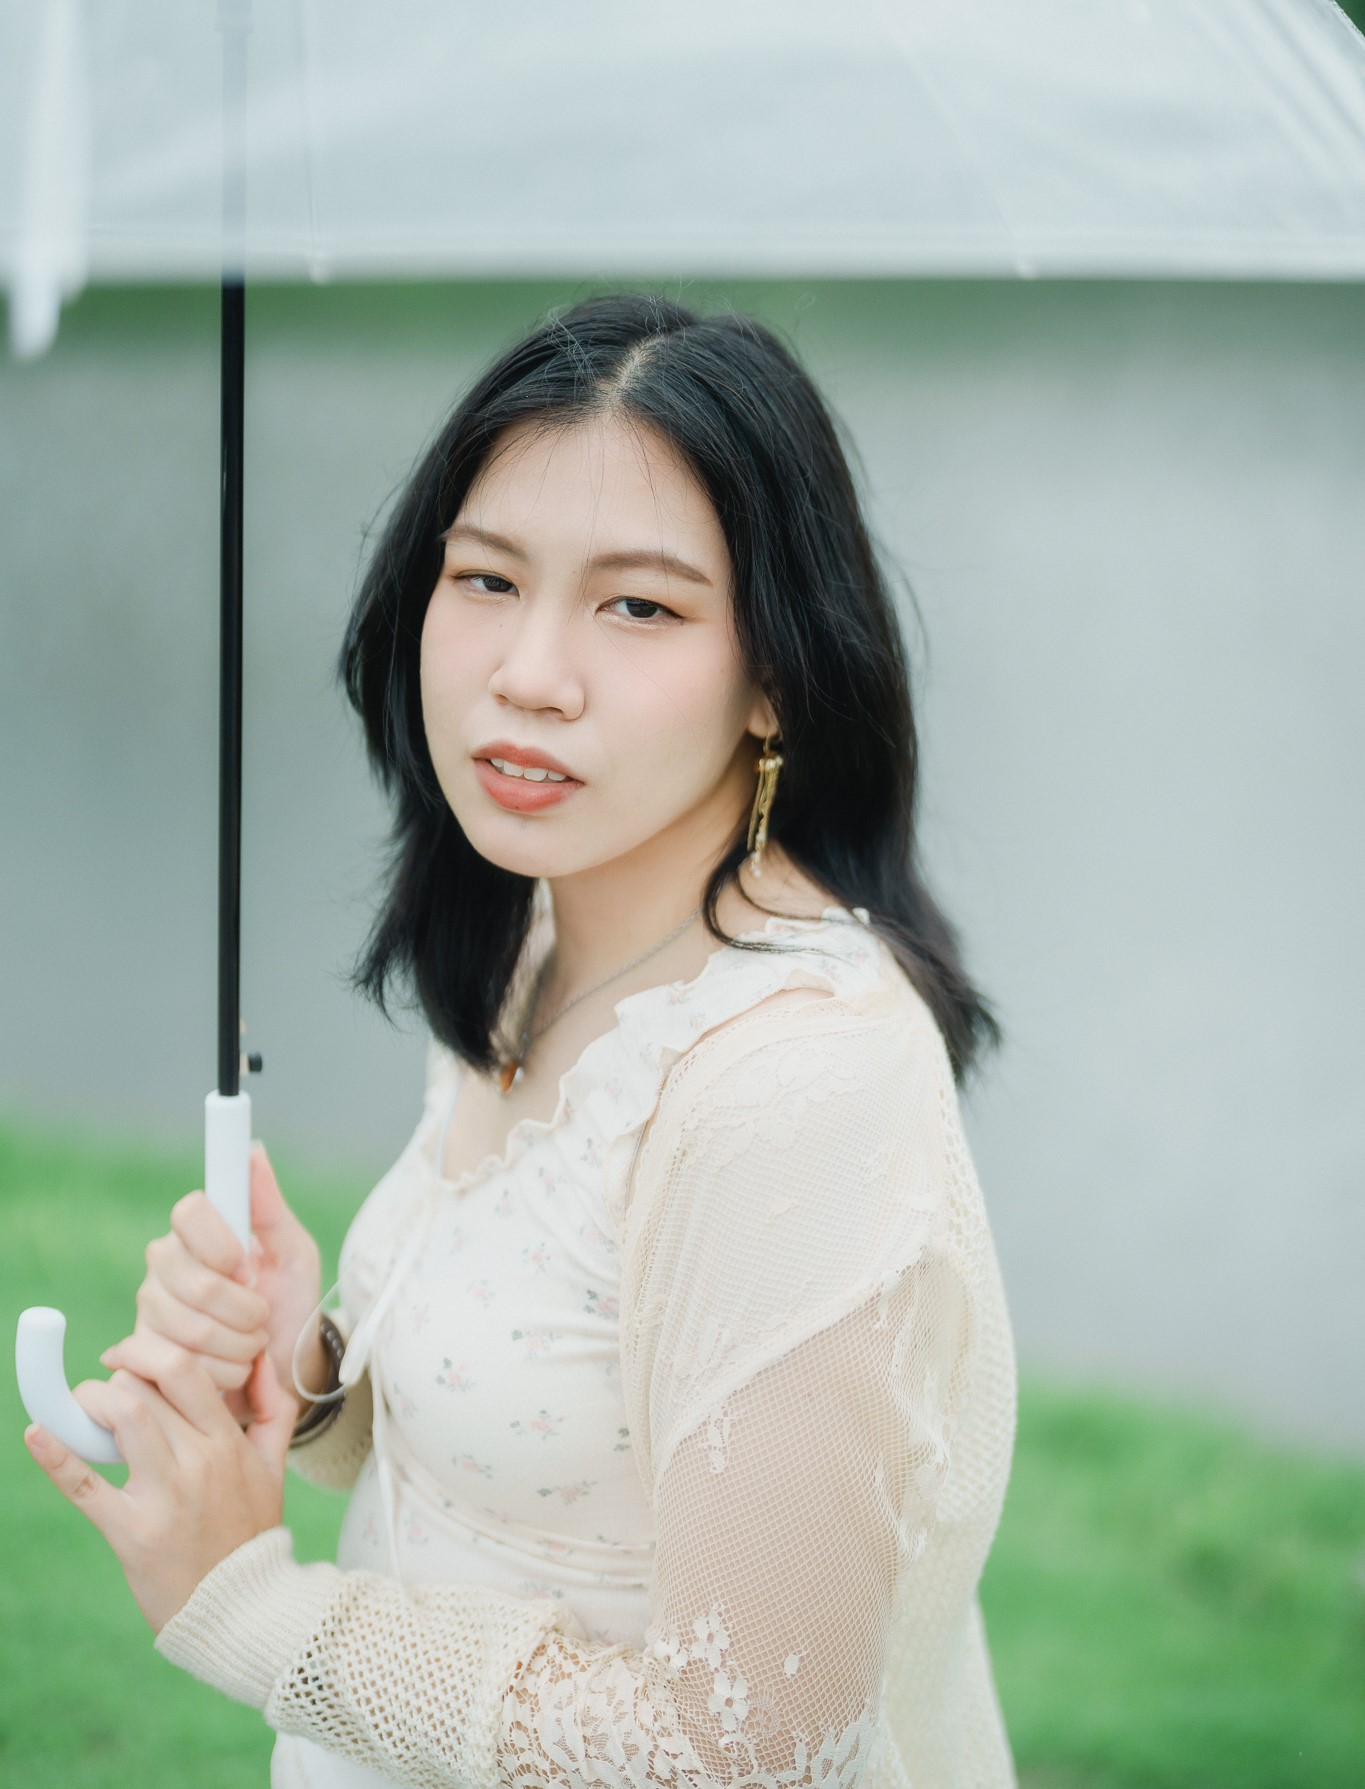
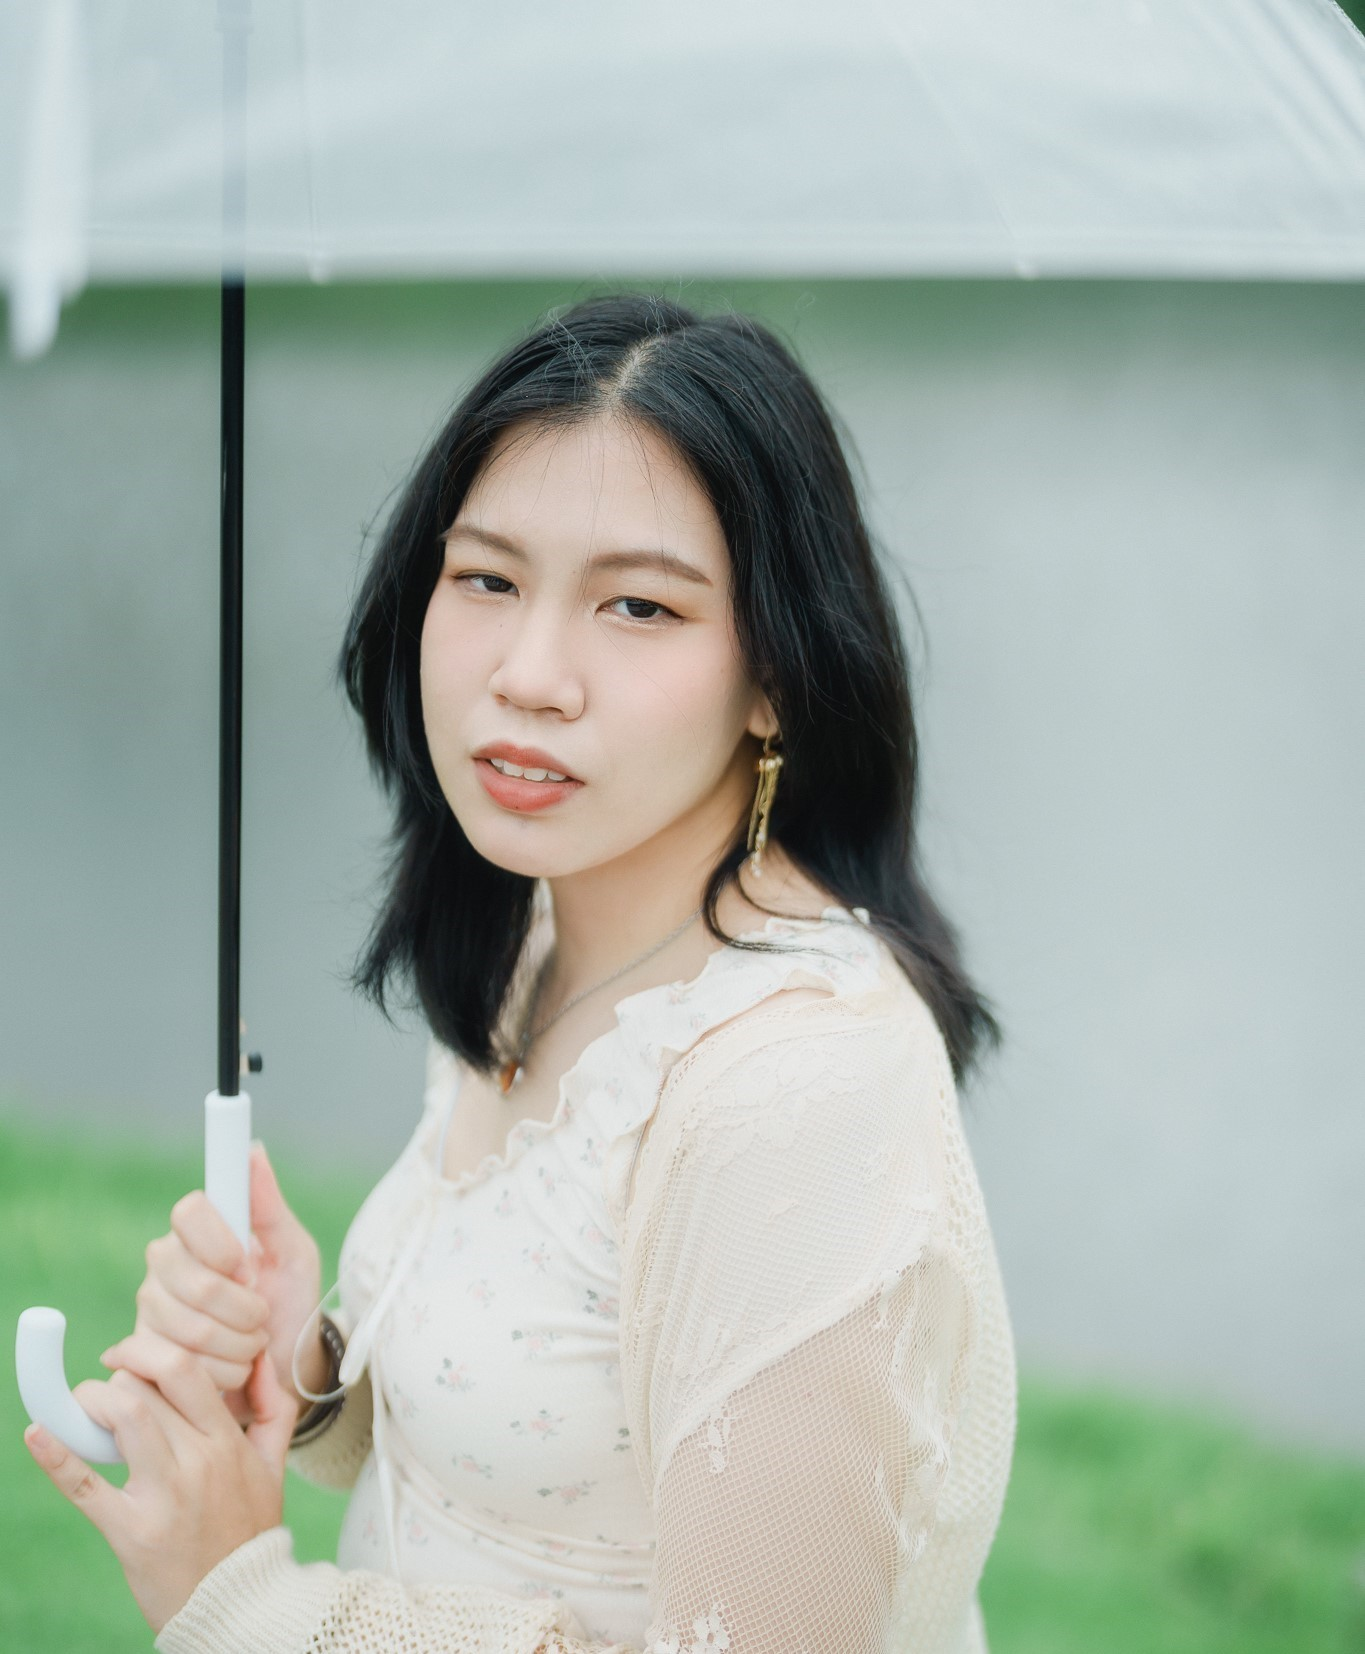
dornor add own detail

Changed region(s): [[0.0, 0.1233, 1.0, 1.0], [0.4308, 0.7092, 0.4615, 0.7709]]

diff --git a/Index.html b/Index.html
@@ -532,16 +532,15 @@
           <div class="col-lg-3 col-md-6 d-flex align-items-stretch" data-aos="fade-up" data-aos-delay="200">
             <div class="team-member">
               <div class="member-img">
-                <img src="Assets/img/team/team-2.jpg" class="img-fluid" alt="">
+                <img src="dnAsset/img/Profile.JPG" class="img-fluid" alt="">
                 <div class="social">
-                  
-                  <a href=""><i class="bi bi-facebook"></i></a>
                   <a href="./Duean.html"><i class="bi bi-pc-display-horizontal"></i></a>
                 </div>
               </div>
               <div class="member-info">
-                <h4>Sarah Jhonson</h4>
-                <span>Product Manager</span>
+                <h4>Suchaya Anuchapreeda</h4>
+                <span>Project Manager</span>
+                <span>DOPE DOPE YES YES</span>
               </div>
             </div>
           </div><!-- End Team Member -->
